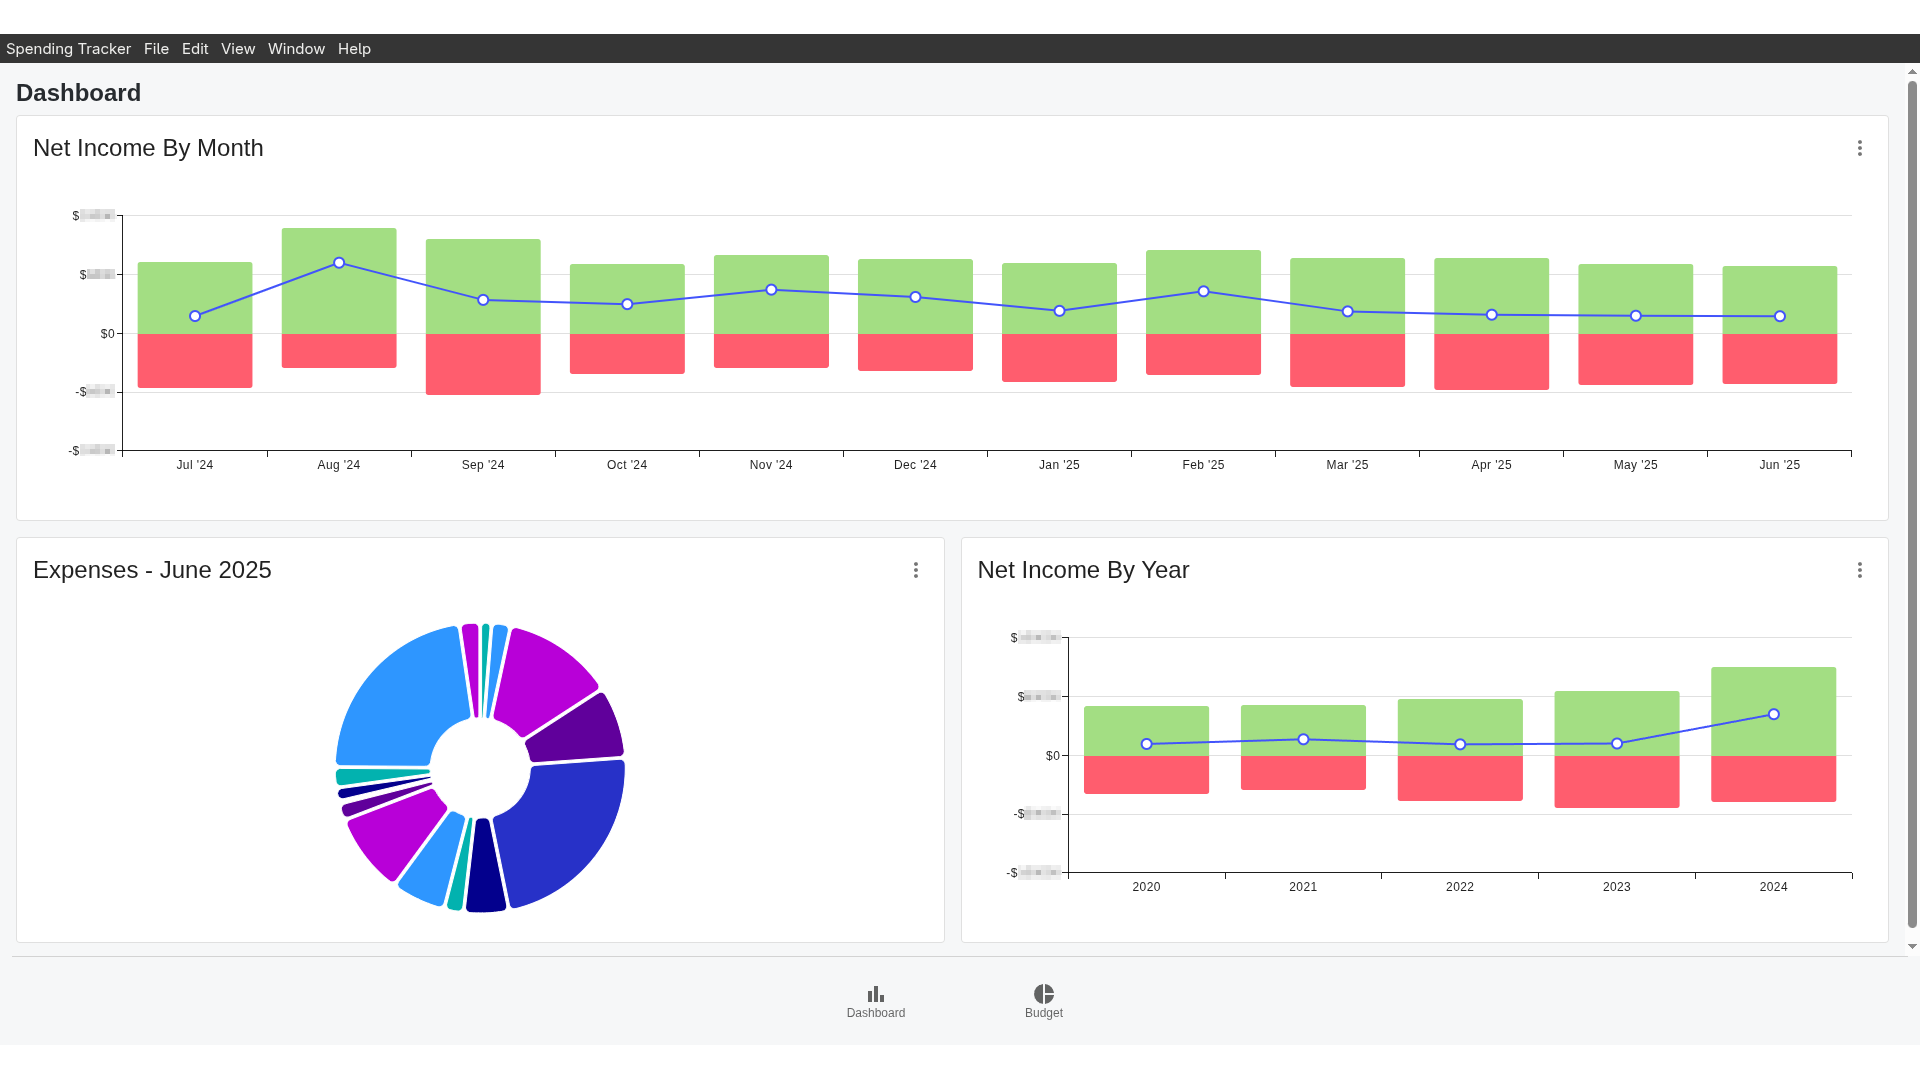
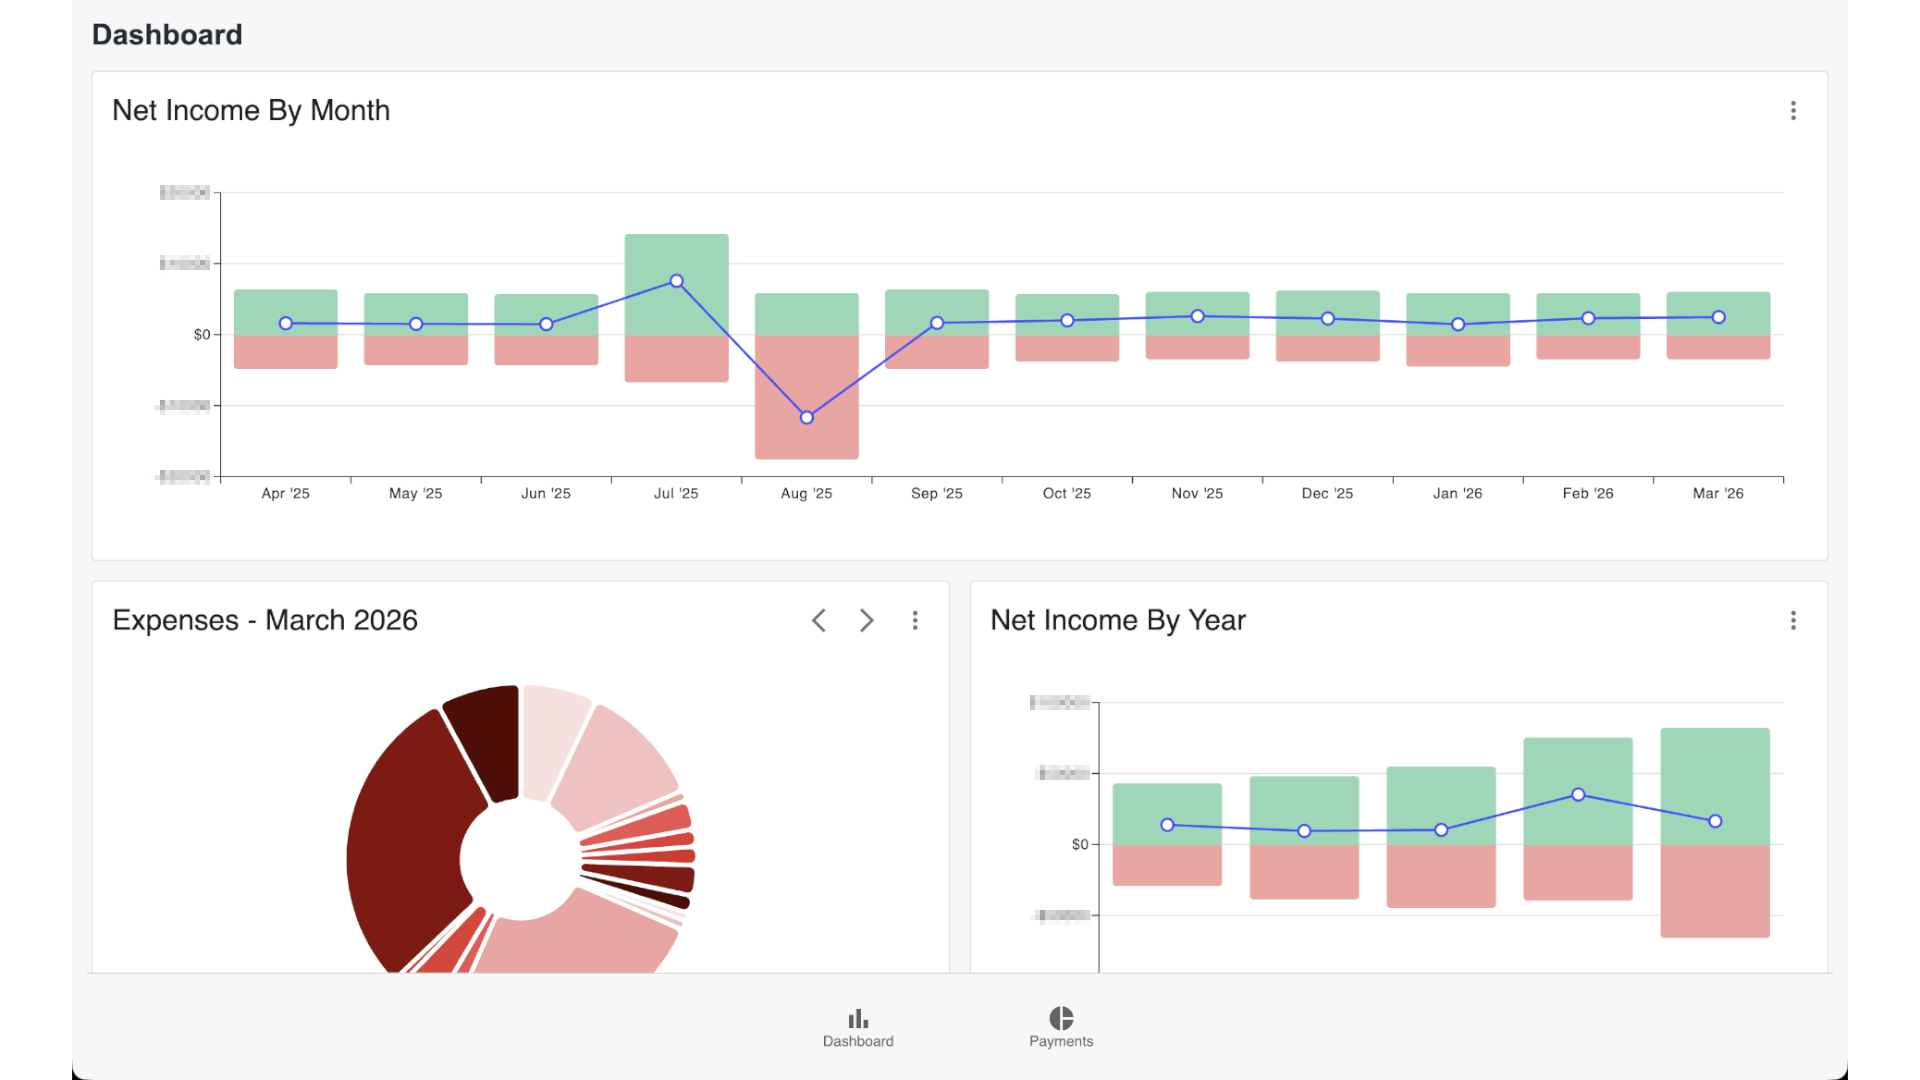
Updated images on spending tracker project

diff --git a/project/source/projects/spending-tracker/index.html b/project/source/projects/spending-tracker/index.html
@@ -17,19 +17,19 @@
             <div class="slideShowContent active">
                 <div class="slideShowCaption">Dashboard displays net income and expense metrics</div>
                 <div class="slideShowImgContainer">
-                    <img src="{% path static/img/spending-tracker/dashboard-01.png %}" alt="get started">
+                    <img src="{% path static/img/spending-tracker/dashboard-01.png %}" alt="dashboard page">
                 </div>
             </div>
             <div class="slideShowContent">
-                <div class="slideShowCaption">New transaction data added via csv import</div>
+                <div class="slideShowCaption">New payment data added via csv import</div>
                 <div class="slideShowImgContainer">
-                    <img src="{% path static/img/spending-tracker/importer-01.png %}" alt="english word">
+                    <img src="{% path static/img/spending-tracker/importer-01.png %}" alt="importer">
                 </div>
             </div>
             <div class="slideShowContent">
-                <div class="slideShowCaption">Monthly expenses can be viewed in detail</div>
+                <div class="slideShowCaption">Details about a month's payment</div>
                 <div class="slideShowImgContainer">
-                    <img src="{% path static/img/spending-tracker/budget-01.png %}" alt="translation">
+                    <img src="{% path static/img/spending-tracker/payments-01.png %}" alt="payments page">
                 </div>
             </div>
         </div>

diff --git a/portfolio/projects/spending-tracker/index.html b/portfolio/projects/spending-tracker/index.html
@@ -48,19 +48,19 @@
             <div class="slideShowContent active">
                 <div class="slideShowCaption">Dashboard displays net income and expense metrics</div>
                 <div class="slideShowImgContainer">
-                    <img src="../../static/img/spending-tracker/dashboard-01.png" alt="get started">
+                    <img src="../../static/img/spending-tracker/dashboard-01.png" alt="dashboard page">
                 </div>
             </div>
             <div class="slideShowContent">
-                <div class="slideShowCaption">New transaction data added via csv import</div>
+                <div class="slideShowCaption">New payment data added via csv import</div>
                 <div class="slideShowImgContainer">
-                    <img src="../../static/img/spending-tracker/importer-01.png" alt="english word">
+                    <img src="../../static/img/spending-tracker/importer-01.png" alt="importer">
                 </div>
             </div>
             <div class="slideShowContent">
-                <div class="slideShowCaption">Monthly expenses can be viewed in detail</div>
+                <div class="slideShowCaption">Details about a month's payment</div>
                 <div class="slideShowImgContainer">
-                    <img src="../../static/img/spending-tracker/budget-01.png" alt="translation">
+                    <img src="../../static/img/spending-tracker/payments-01.png" alt="payments page">
                 </div>
             </div>
         </div>
